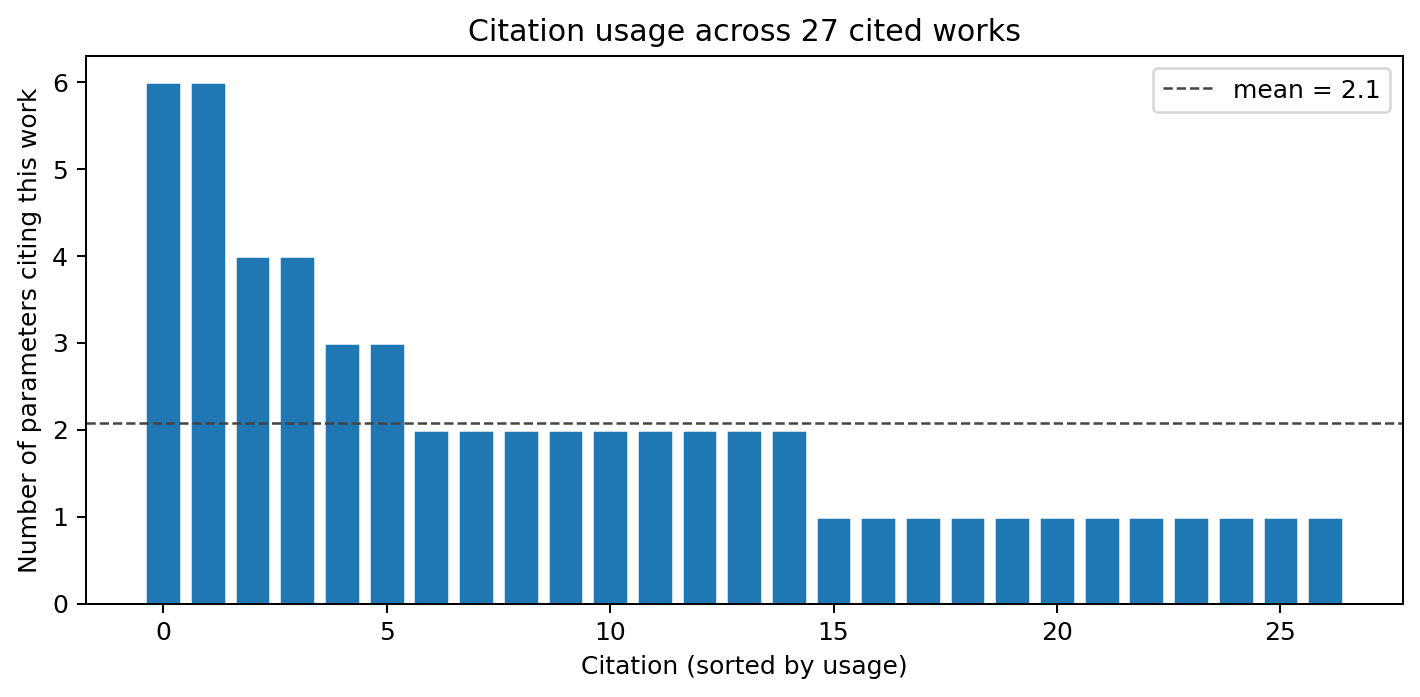
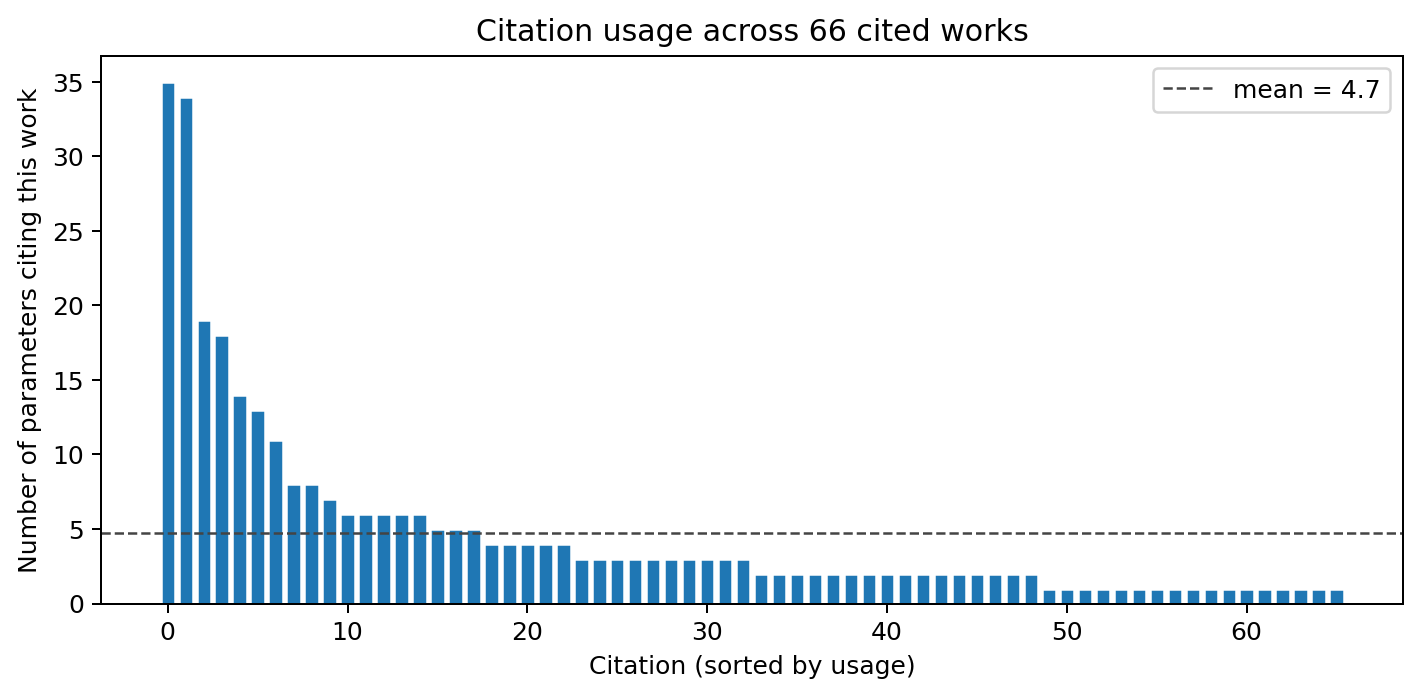
README: architecture diagrams + cheat sheet; refresh figures; fix stale spec counts
README gains two Mermaid diagrams (dataset-as-source-of-truth system
design; the export registry → reference-kernel → format-builder →
COMBINE pipeline), a design-decision rationale table, and a verified
API + CLI cheat sheet. Embedded the tier-distribution figure and
regenerated the essay figures from live data (fig1/fig3 were stale vs
the 243-param / 66-citation state).

Spec consistency fixes:
- 02-parameter-expansion-roadmap: citation count 71 → 66 (actual).
- 01-mechanistic-modeling-interop: refreshed the stale status header
  (claimed "first four submodels shipped, ~6 remaining"; all 41 ship
  now — only submission/social steps remain).
- 03-submodel-expansion-catalog: reconciled the 33 → 41 submodel-count
  drift between the original projection and the realized registry.

No code changes. Every cheat-sheet line and parameter/citation id
verified against the live package.

diff --git a/README.md b/README.md
@@ -57,6 +57,10 @@ That is the whole project. The dataset is the centerpiece. The Python package, t
 - **One composed pregnancy SBML model** wiring all submodels via a shared gestational-time axis.
 - **COMBINE archive** (`.omex`) bundling SBML + CellML + PhysioCell + provenance metadata.
 
+![Tier distribution by subsystem — the honest shape of the dataset's evidence base](docs/assets/essay/fig1_tier_distribution.png)
+
+*Every parameter carries an explicit confidence tier. The chart above is generated deterministically from the live dataset ([`notebooks/essay_figures.ipynb`](notebooks/essay_figures.ipynb)) — it is the dataset being honest about itself: Tier A (green) where the literature is strong, Tier D (red) where a channel is hypothesised but unquantified.*
+
 See [docs/specs/v0.4/00-overview.md](docs/specs/v0.4/00-overview.md) for the v0.4 design and [docs/specs/v0.4/04-exhaustive-parameter-catalog.md](docs/specs/v0.4/04-exhaustive-parameter-catalog.md) for the full ceiling — every parameter the project could honestly include given the available literature.
 
 ## What nidus is
@@ -73,6 +77,101 @@ See [docs/specs/v0.4/00-overview.md](docs/specs/v0.4/00-overview.md) for the v0.
 - **Not a mechanistic simulator.** Nidus exports parameters *into* the simulators ([CellML](https://www.cellml.org/), [COPASI](http://copasi.org/), [PhysioCell](http://physicell.org/), [tellurium](https://tellurium.analogmachine.org/)). It does not integrate ODEs itself.
 - **Not an automated medical researcher.** Humans verify every parameter and every citation. LLMs help but do not promote `unverified` to `verified` on their own authority.
 - **Not exhaustive.** The declared-scope ceiling enumerated in the [exhaustive parameter catalog](docs/specs/v0.4/04-exhaustive-parameter-catalog.md) has been reached (every catalog row is now `shipped`). Further growth means parameters not yet enumerated — open an issue if you find one that fits the envelope (normal physiology, human, 8–40w singleton).
+
+## Architecture
+
+The **dataset is the single source of truth.** Everything else is generated from it: the Python package bundles a synced copy, and every export format is a deterministic projection of the same JSON. There is no second store of numbers to drift out of sync.
+
+```mermaid
+flowchart TD
+    DS["<b>dataset/</b> — source of truth<br/>JSON parameters + JSON Schema + JSON-LD context<br/>243 params · 66 citations · 13 subsystems · 4 tiers"]
+    DS -->|"sync_dataset_into_package.py"| PKG["<b>nidus</b> Python package<br/>load · filter · validate · models"]
+    PKG --> CLI["<b>nidus</b> CLI<br/>version · validate · info · export"]
+    PKG --> DASH["Streamlit dashboard<br/>7 browsable pages"]
+    PKG --> NB["Reference notebooks<br/>executed in CI (nbmake)"]
+    PKG --> EXP["<b>nidus.export</b><br/>41 mechanistic submodels"]
+    EXP --> SBML["SBML L3v2<br/>→ BioModels Database"]
+    EXP --> CELLML["CellML 2.0 / 1.1<br/>→ Physiome Repository"]
+    EXP --> PC["PhysioCell<br/>user_parameters.xml"]
+    EXP --> OMEX["COMBINE .omex<br/>+ SED-ML descriptors"]
+```
+
+Inside `nidus.export`, the submodel **registry** is the spine. Each submodel binds dataset parameter ids to a pure-NumPy **reference kernel**; the format builders (SBML / CellML / PhysioCell) read the same registry, and every exported model is round-trip validated against its kernel so an export bug cannot ship silently.
+
+```mermaid
+flowchart LR
+    P["dataset/parameters/*.json"] --> REG["registry.py<br/>Submodel definitions<br/>(params + tier propagation)"]
+    REG --> REF["reference.py<br/>pure-NumPy kernels"]
+    REG --> SBMLB["sbml.py"]
+    REG --> CMLB["cellml.py"]
+    REG --> PCB["physiocell.py"]
+    ANN["annotate.py<br/>MIRIAM · SBO · nidus: RDF"] --> SBMLB
+    ANN --> CMLB
+    REF -. "round-trip validates (1e-6 algebraic / 1e-4 ODE)" .-> SBMLB
+    SBMLB --> COMBINE["combine.py → .omex"]
+    CMLB --> COMBINE
+    PCB --> COMBINE
+    SEDML["sedml.py<br/>uniformTimeCourse"] --> COMBINE
+```
+
+**Design decisions, and why:**
+
+| Decision | Rationale |
+| --- | --- |
+| **Pure Python** (NumPy/SciPy, no Rust/PyO3) | Nothing in the dashboard or exports is compute-bound. A second language is friction, not value. The v0.2 Rust prototype is archived at the `v0.2-archive` tag. |
+| **Dataset is the centerpiece; everything else is a presentation layer** | The durable contribution is the curated, tier-annotated numbers — not any one viewer. The Python API, dashboard, and SBML/CellML exports are all swappable projections. |
+| **Confidence tier on every parameter** | A pregnancy model is only as honest as its weakest input. Making uncertainty a first-class, machine-readable field is the load-bearing idea. The worst input tier propagates into every derived submodel. |
+| **Humans verify; LLMs do not promote** | `unverified → verified` requires a human reading the source PDF. This keeps the dataset's authority human-grounded. 28 / 243 are verified today; that number is honest, not aspirational. |
+| **Exports are generated artifacts, never hand-edited** | CI regenerates every format on each push. Consumers can pin to a `nidus:datasetVersion` annotation for reproducibility. |
+| **MIRIAM citation chain survives tier-stripping** | If a downstream tool drops the custom `nidus:` RDF predicates, the `bqbiol:isDescribedBy` DOI/PMID links remain — the citation chain is the durable layer. |
+
+## Cheat sheet
+
+```python
+import nidus
+ds = nidus.load()                       # bundled dataset (or load(path=...) for a checkout)
+
+len(ds)                                 # 243 parameters
+ds["maternal_renal.gfr_ml_per_min"]     # dotted id → Parameter
+p = ds["placental_glucose.glucose_glut1_km_mmol_per_l"]
+p.value.central, p.value.low, p.value.high, p.value.units
+p.tier                                  # "A" | "B" | "C" | "D"
+p.extraction.review_status              # "verified" | "unverified" | "contested"
+p.extraction.tier_rationale             # prose: why this tier
+p.primary_citation.doi                  # canonical source DOI
+
+[x for x in ds if x.tier in ("A", "B")]            # filter by tier
+[x for x in ds if x.subsystem == "fetal_growth"]   # filter by subsystem
+ds.citations["mahendru-2014-cardiac-output"].doi   # citation lookup
+
+from nidus.export import (
+    SUBMODELS,                          # 41 mechanistic submodels
+    evaluate_submodel,                  # dataset → numeric trajectory
+    submodel_domain,                    # the independent variable + plotting range
+    supported_submodels,                # 40 are 1-D evaluable
+)
+import numpy as np
+t = np.linspace(8, 40, 100)             # gestational weeks
+co = evaluate_submodel(ds, "maternal_cardiac_output_trajectory", t)
+# one-at-a-time sensitivity sweep:
+hi = evaluate_submodel(ds, "maternal_cardiac_output_trajectory", t,
+                       overrides={"peak_excess_l_per_min": 3.0})
+```
+
+```bash
+nidus version                                   # package + dataset version
+nidus validate                                  # JSON-Schema-validate the dataset
+nidus info                                       # counts by subsystem / tier / review status
+nidus export --format bibtex   --output refs.bib
+nidus export --format csv      --output params.csv
+nidus export --format sbml      --output exports/sbml/        # one .xml per submodel
+nidus export --format cellml    --output exports/cellml/      # CellML 2.0
+nidus export --format cellml    --cellml-version 1.1 --output exports/cellml_1_1/
+nidus export --format physiocell --output exports/physicell/  # user_parameters.xml
+nidus export --format composed  --output exports/composed/    # top-level coupled model
+nidus export --format omex      --output exports/nidus.omex   # COMBINE archive
+streamlit run dashboard/app.py                  # browse locally
+```
 
 ## Quick start
 

diff --git a/CHANGELOG.md b/CHANGELOG.md
@@ -8,6 +8,24 @@ and versions follow [Semantic Versioning](https://semver.org/).
 
 ## [Unreleased]
 
+### Documentation
+- **README: architecture + export-pipeline diagrams, design-decision
+  table, and a copy-paste cheat sheet.** Added two Mermaid diagrams
+  (dataset-as-source-of-truth system design; the `nidus.export`
+  registry → reference-kernel → format-builder → COMBINE pipeline), a
+  rationale table for the locked-in design decisions, an API + CLI
+  cheat sheet (every line verified to run against the live package),
+  and embedded the current tier-distribution figure. Regenerated the
+  three essay figures from live data (fig1/fig3 were stale relative to
+  the post-saturation 243-parameter / 66-citation state).
+- **Spec consistency fixes.** Corrected the citation count in
+  `02-parameter-expansion-roadmap.md` (71 → 66), refreshed the badly
+  stale status header on `01-mechanistic-modeling-interop.md` (it
+  still claimed "first four submodels shipped, ~6 remaining" — all 41
+  ship now; only submission/social steps remain), and reconciled the
+  submodel-count drift in `03-submodel-expansion-catalog.md` (the
+  projected 33 over-delivered to the realized 41).
+
 ### Added
 - **`evaluate_submodel` coverage 36 → 40 / 41 submodels.** Wired the
   four Hadlock biometry growth submodels (`hadlock_{bpd,hc,ac,fl}_

diff --git a/docs/specs/v0.4/03-submodel-expansion-catalog.md b/docs/specs/v0.4/03-submodel-expansion-catalog.md
@@ -43,8 +43,12 @@ Submodels are grouped by subsystem; each entry lists the equation
 form, the parameter ids it would consume, the citation it would be
 annotated with (`bqbiol:isDescribedBy`), and the implementation cost.
 
-If the full catalog ships, nidus exports cover **~33 submodels** — a
-realistic saturation point for the declared scope.
+The original projection here was **~33 submodels** (11 base + the 22
+candidates below). The realized registry over-delivered: it now
+totals **41 submodels** — the catalog's actual saturation point —
+because several candidates split into multiple isoform / derived
+variants (e.g. GLUT1 *and* GLUT3, MCA-PI *and* cerebroplacental
+ratio, the four Hadlock biometry fits) once they were implemented.
 
 ## 2. Phase A — high confidence (recommended)
 
@@ -347,9 +351,11 @@ different focused project.
 | B     | 10        | ~900              | ~3 weeks               |
 | C     | 4         | ~250              | ~1 week                |
 
-Total ceiling: **33 submodels** (current 11 + 22 here). The dataset
-side ceiling (`02-parameter-expansion-roadmap.md`) is **~200
-parameters**. Both ceilings are honest stopping points for the project
+Projected ceiling at authoring time: **33 submodels** (11 base + 22
+candidates). Realized ceiling: **41 submodels** (the candidates
+split into more isoform / derived variants than the table
+anticipated — see §1). The dataset side ceiling
+(`02-parameter-expansion-roadmap.md`) is **~200 parameters**. Both ceilings are honest stopping points for the project
 as scoped; exceeding either implies a scope change that should be
 re-litigated against the v0.3 / v0.4 overview specs.
 

diff --git a/docs/specs/v0.4/01-mechanistic-modeling-interop.md b/docs/specs/v0.4/01-mechanistic-modeling-interop.md
@@ -1,6 +1,6 @@
 # Spec 01 — Mechanistic-Modeling Interop: SBML, CellML, PhysioCell
 
-**Status:** Active — **implementation in progress.** First four submodels shipped (logistic placental growth, Severinghaus adult O2-Hb, fetal HbF dissociation, Michaelis-Menten GLUT1) in all three formats (SBML L3v2, CellML 2.0 + 1.1 fallback, PhysioCell parameters.xml). `nidus export --format {sbml,cellml,physiocell} --output <dir>` works end-to-end and is covered by 26 tests. Open questions all resolved (see §16). Remaining: the other ~6 submodels (Gaussian CO/MAP, uterine-flow logistic, venous-equilibrator O2 exchange, GLUT3 MM, plasma-volume expansion, Hadlock weight), top-level composed pregnancy model, COMBINE archives, repository submissions, real PhysioCell tissue example.
+**Status:** Engineering **code-complete.** All **41** registered submodels (the original 10 of §3.1 plus the 31 added per [`03-submodel-expansion-catalog.md`](03-submodel-expansion-catalog.md)) export to all three formats: SBML L3v2 (libSBML consistency-check clean), CellML 2.0 with 1.1 fallback (`libcellml.Validator` clean), and PhysioCell `<user_parameters>`. The top-level composed pregnancy model (flat SBML compose over a shared gestational-time axis), the COMBINE `.omex` archive, the SED-ML simulation descriptors, and a real PhysioCell placental-villous tissue example all ship. `nidus export --format {sbml,cellml,physiocell,composed,omex} [--cellml-version {2.0,1.1}] --output <dir>` works end-to-end and is covered by 300+ tests at 98%+ coverage. Open questions all resolved (see §16). Remaining work is **submission/social only** (see §15): BioModels Database submission, Physiome Model Repository workspace, the `MathCancer/PhysiCell-tutorials` PR, and the v0.4.0 Zenodo deposit — none of which is engineering. The §3.1 table below describes the *original* 10-submodel scope and is kept as design history; the live registry is the source of truth (`nidus.export.SUBMODELS`).
 **Target release:** `v0.4.0`.
 **Supersedes:** the earlier `v0.3/02-sbml-cellml-export.md` (now deleted; preserved in git history).
 **Depends on:** v0.3.0 shipped (dataset stable, schemas frozen).

diff --git a/docs/specs/v0.4/02-parameter-expansion-roadmap.md b/docs/specs/v0.4/02-parameter-expansion-roadmap.md
@@ -3,7 +3,7 @@
 **Status:** Historical / superseded. This spec was the original
 planning document for the v0.4 expansion (v0.3 baseline = 70
 parameters, 33 citations). The expansion has since shipped and then
-some: the dataset now stands at 243 parameters / 71 citations and
+some: the dataset now stands at 243 parameters / 66 citations and
 **every row in [`04-exhaustive-parameter-catalog.md`](04-exhaustive-parameter-catalog.md)
 is `shipped`**. Spec 04 is the source of truth; this spec is kept
 for historical reference (it explains *why* the roadmap was phased